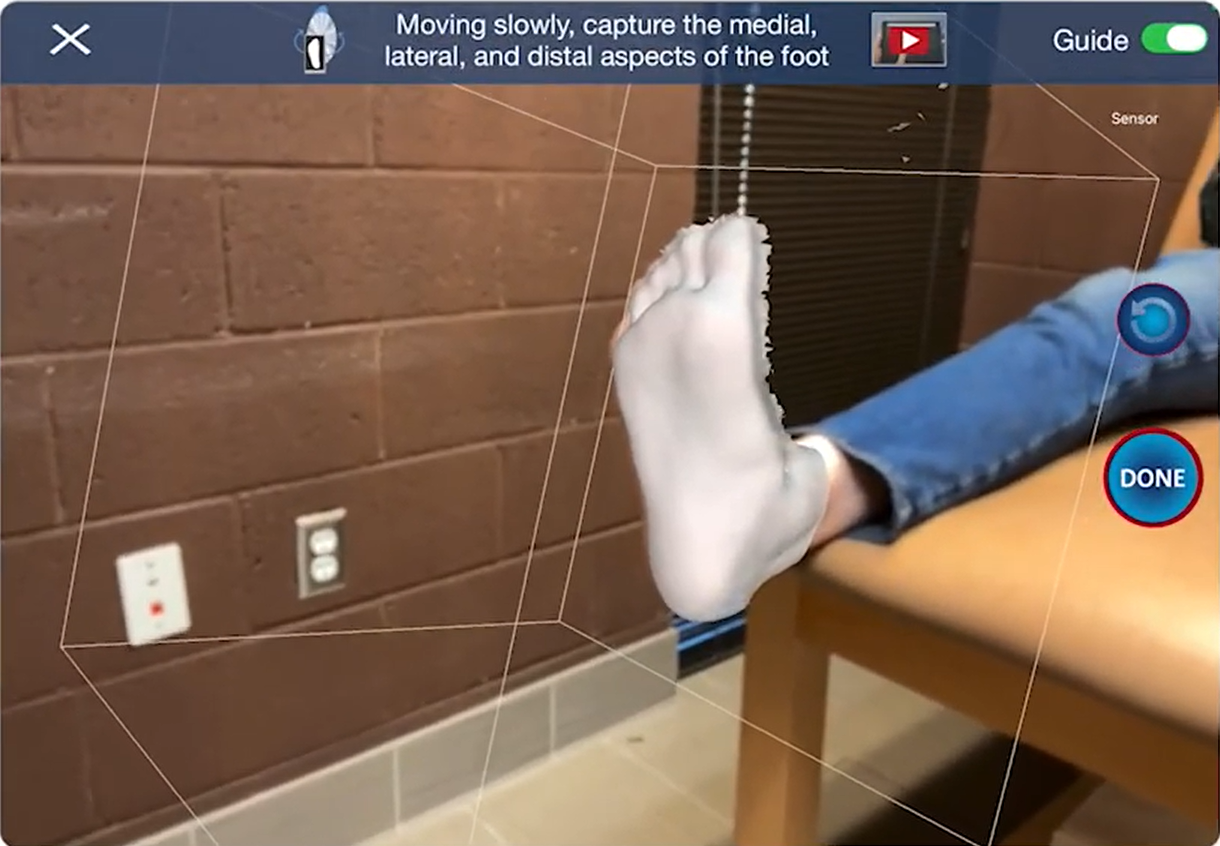
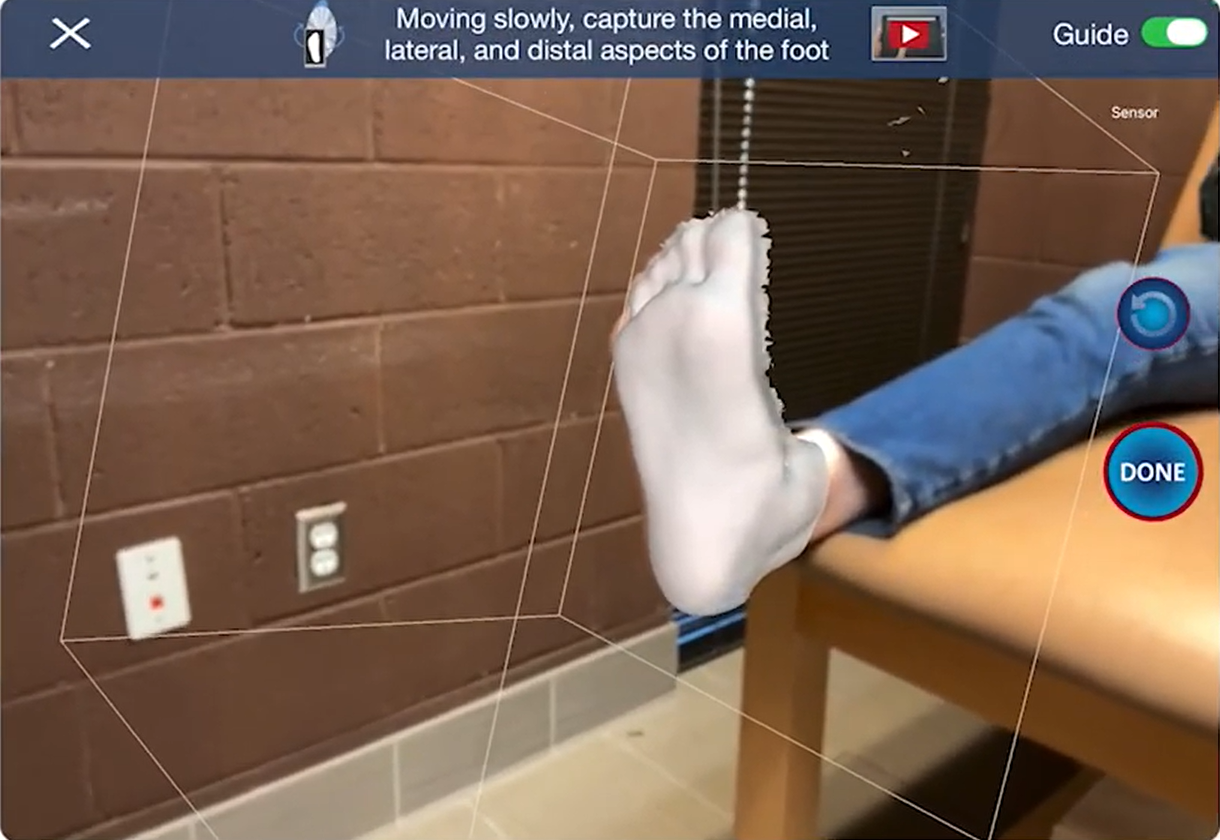
Eliminate remaining white line at top of Scan step screenshot
Previous fix cropped the PNG's left/right/bottom edges but left 1px of
white at the top. Cropped 6px off the top (1220x846 -> 1220x840) and
added a black background on the Scan slide itself so any subpixel gap
at the screen edge blends with the iPad bezel instead of flashing white.

diff --git a/css/style.css b/css/style.css
@@ -1234,7 +1234,12 @@ body:has(button:hover) .cursor__ring { width: 52px; height: 52px; opacity: 0.7; 
 
 /* Per-slide media adjustments */
 /* Step 1: Anchor top so the instruction banner stays visible. The PNG was
-   pre-cropped to remove its 1-2px white perimeter, so no scale hack needed. */
+   pre-cropped to remove its 1-2px white perimeter. The slide itself gets a
+   black background so any subpixel gap at the screen edge blends with the
+   iPad bezel instead of flashing white. */
+.ipad-slide[data-step="1"] {
+  background: #000;
+}
 .ipad-slide[data-step="1"] img {
   object-position: center top;
 }
